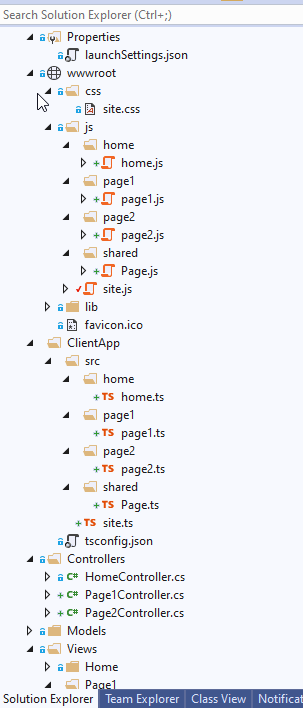
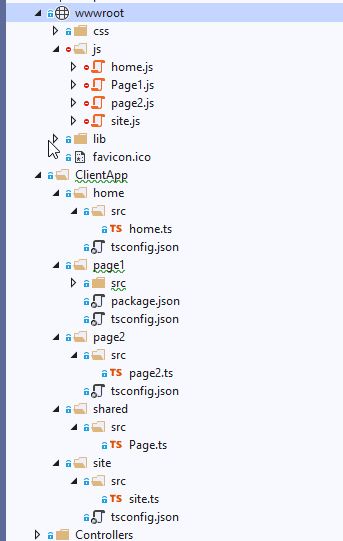
Update ReadMe

Changed region(s): [[0.0, 0.0, 1.0, 1.0], [0.0891, 0.4732, 0.1188, 0.5028]]

diff --git a/README.md b/README.md
@@ -98,106 +98,20 @@ In VS2019, run the application in IIS Express, the new web site with TypeScript 
 
 - Add some controllers and views.
 - In the ClientApp, create folder for each pages. Add some Typescript files there.
+- The final project solution explorer view will looks like below
     ![solution structure](SolutionStructure_1.png)
 
-### 2.2 Connect the View and Javascript files in View
 
-The  code site.ts will used for all site, it need in `Shared/_layout.cshtml` files.
-In each pages, they will have their own javascript files.
+### 2.2 TsConfig.json for multiple pages with shared modules
 
-The js will be include in the view like below:
+The there is shared folder, we have `site.ts` will used by multiple page, and we want build the single js page for each page.
 
-```html
-@{
-    ViewData["Title"] = "page1";
-}
+In the project we use javascript module type [AMD](https://en.wikipedia.org/wiki/Asynchronous_module_definition).
+and it need use [requireJs](https://requirejs.org/).
 
-<h1>page1</h1>
+download the [required.js](https://requirejs.org/docs/download.html) and put in the `\wwwroot\lib\` folder.
 
-@section Scripts {
-    <script src="~/js/page1/page1.js" asp-append-version="true"></script>
-}
-
-```
-
-### 2.3 Move Ts.Config to each page JS folder
-
-Since we will build each page as a single page application. they need it's own config.
-
-![ts.config](TSConfigForEachPageJSFolder.png)
-
-```json
-{
-  "compileOnSave": true,
-  "compilerOptions": {
-    "noImplicitAny": false,
-    "noEmitOnError": true,
-    "removeComments": false,
-    "sourceMap": true,
-    "target": "es5",
-    "outDir": "../../../wwwroot/js"
-
-  },
-  "include": [
-    "**/*",
-    "../shared/*"
-  ],
-  "exclude": [
-    "node_modules"
-  ]
-}
-```
-
-Also the code need import the module in shared folder
-
-The page.ts in shared folder:
-
-```js
-export interface Page {
-    Name: string;
-    Title: string;
-    Desc: string;
-    PageId: number;
-}
-```
-
-The tsconfig.json in Page folder
-
-```json
-{
-  "compileOnSave": true,
-  "compilerOptions": {
-    "noImplicitAny": false,
-    "noEmitOnError": true,
-    "removeComments": false,
-    "sourceMap": true,
-    "target": "es5",
-    "outDir": "../../../wwwroot/js"
-
-  },
-  "include": [
-    "**/*",
-    "../shared/*"
-  ],
-  "exclude": [
-    "node_modules"
-  ]
-}
-```
-
-Pay attention on the *include* and *exclude* section. also the *outDir* need update to the correct relation path.
-
-### 2.4 Re-structure the folder of for the page scripts
-
-Move the Src folder inside the page folder, so we could add config and module files outside the src folder for each pages folder.
-![update files structure](TSConfigForEachPageJSFolder2.png)
-
-### 2.5 Update the ts.config to make one page only use single bundle js file
-
-Add module with  value 'AMD' and special the name in the outFile.
-Foc doc of tsconfig setting, please check <https://www.typescriptlang.org/tsconfig>
-
-Example of `tsConfig.json` file  in the Page1 folder.
+Example of `tyConfig.json` for `/page1/`:
 
 ```json
 {
@@ -211,23 +125,64 @@ Example of `tsConfig.json` file  in the Page1 folder.
     "outDir": "/../../wwwroot/js",
     "module": "AMD",
     "outFile": "../../wwwroot/js/Page1.js"
-
   },
   "include": [
     "src/**/*",
-    "../shared/src/**/*"  ]
-  
+    "../shared/src/**/*"
+  ]  
 }
 ```
 
-## 3 Add NPM packages
+Pay attention on the *include* and *exclude* section. also the *outDir* need update to the correct relation path.
 
-### 3.1 Add NPM package files
+For documentation of tsconfig setting, please check <https://www.typescriptlang.org/tsconfig>
+
+### 2.3 Connect the View and Javascript files in View
+
+The  code site.ts will used for all site, it need in `Shared/_layout.cshtml` files.
+
+```csharp
+    <!-- and the bottom of Shared/_layout.cshtml -->
+    <script src="~/lib/jquery/dist/jquery.min.js"></script>
+    <script src="~/lib/bootstrap/dist/js/bootstrap.bundle.min.js"></script>
+    <script src="~/js/site.js" asp-append-version="true"></script>    
+    @RenderSection("Scripts", required: false)
+```
+
+In each pages, the js will be include in the view like below:
+
+```html
+@{
+    ViewData["Title"] = "page1";
+}
+
+<h1>page1</h1>
+
+@section Scripts {
+
+    <script data-main="/js/page1.js" src="~/lib/require.js" asp-append-version="true"></script>
+    <script>
+       require(["page1/src/page1"])
+    </script>
+}
+
+```
+
+*Note: the `page1.js` is exported as module name `page1/src/page1` since it use module in `shared/src/page`. the Script `require(["page1/src/page1"])` will load the javascript code and run it*
+
+## 3 Add a new page ReactDemo to Demo how to include Js 
+
+### 3.1 Add NPM package
 
 NPM is come with the [Node.Js](https://nodejs.org/en/download/). It should already be installed before you working this TypScript project.
 
 Right-click the project in Solution Explorer and choose Add > New Item. Choose the npm Configuration File, use the default name, and click Add.
 `package.json` file will be added.
+
+### 3.2 Add ReactJs
+
+todo.. 
+
 
 
 ### reference
